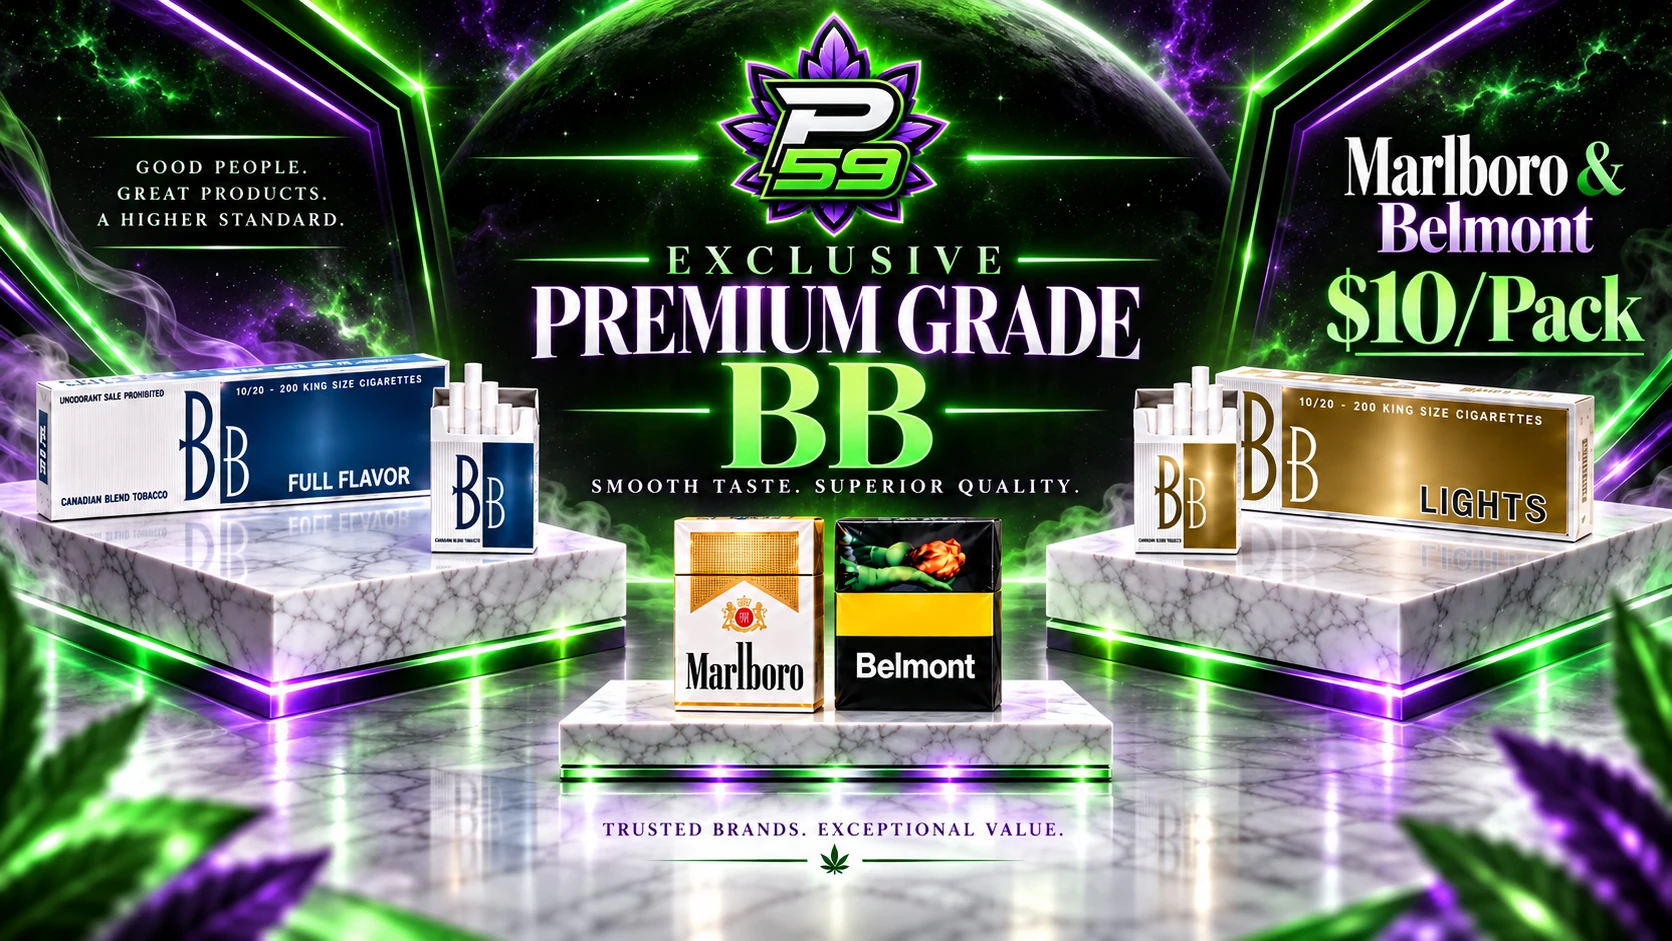
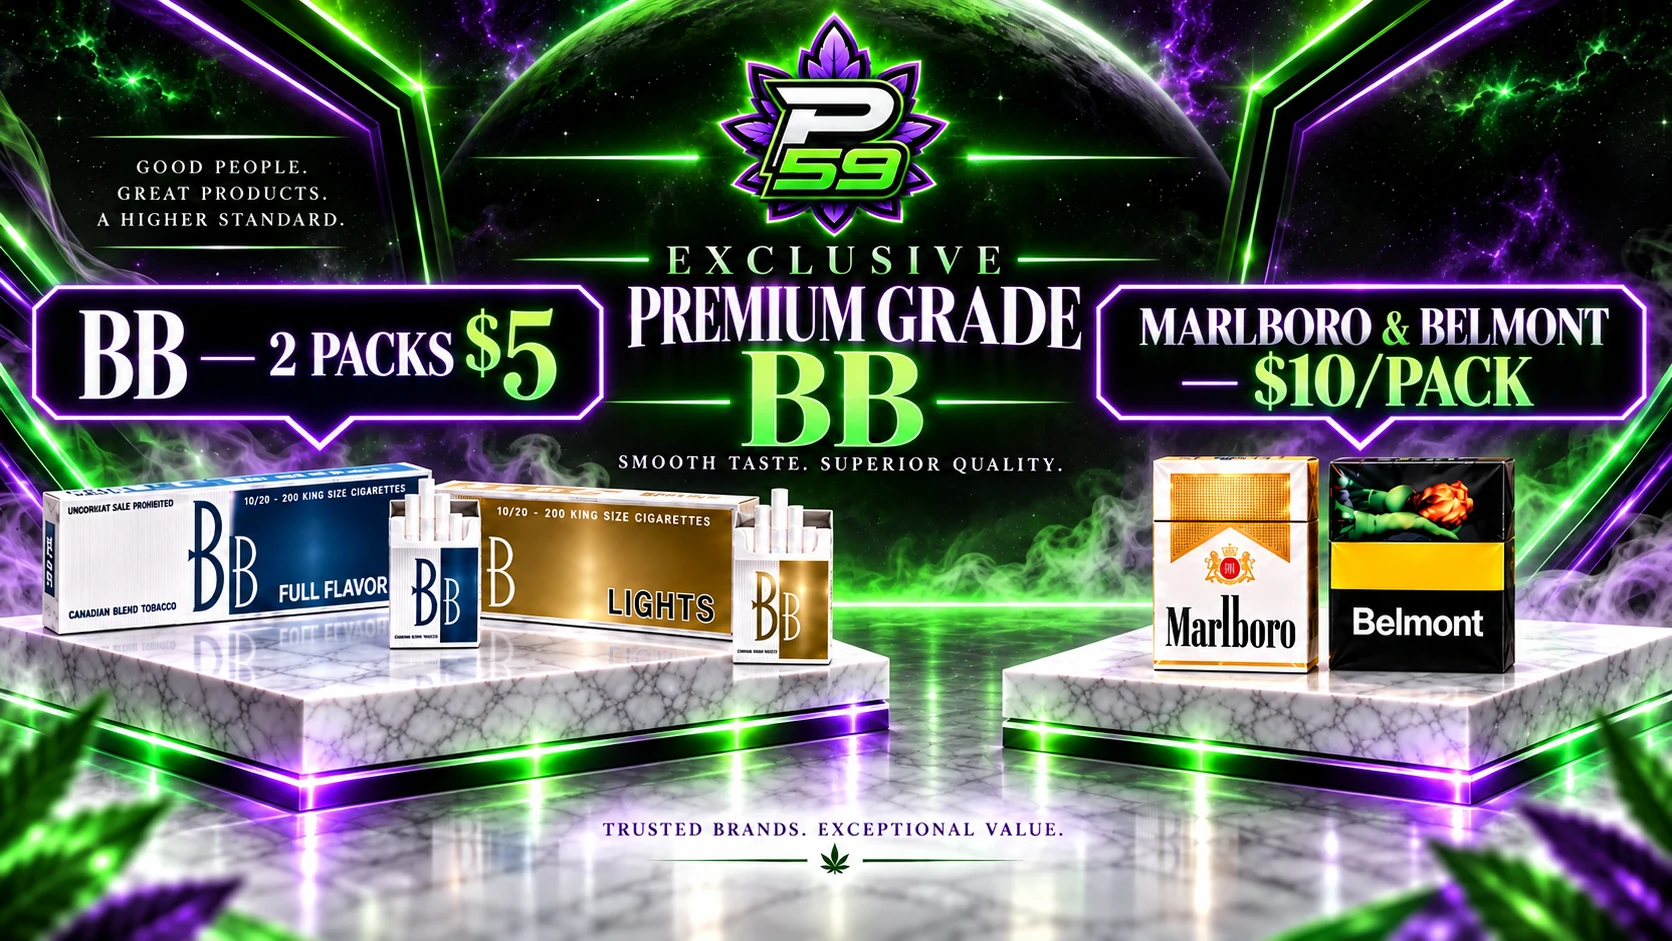
Add core promos to matching categories

diff --git a/app/components/CategoryCoreBanners.tsx b/app/components/CategoryCoreBanners.tsx
@@ -1,0 +1,52 @@
+import Link from "next/link";
+
+type CategoryCoreBannersProps = { kind: "weed" | "vapes" | "cigarettes" };
+
+const STORE_NAME = "PLANETS 59";
+const STORE_AREA = "Torbram Road, Brampton";
+const STORE_ORIGIN = "https://www.planets59.com";
+const TOP_WEED_IMAGE = "/banners/core-top-weed-tier.webp";
+const CIGARETTE_IMAGE = "/banners/native-cigarette-offer-20260822.webp";
+const VAPE_IMAGE = "/banners/core-vapes-nicotine-thc.webp";
+const PREMIUM_CIGARETTE_IMAGE = "/banners/core-premium-bb-marlboro-belmont.webp";
+
+export const cigaretteCategoryImage = {
+  alt: `${STORE_NAME} in ${STORE_AREA} — 2 packs for $5 mix and match and $25 carton cigarette offer`,
+  title: `${STORE_NAME} cigarette offer — 2 packs $5 mix and match, $25 carton`,
+};
+
+const promos = {
+  weed: { image: TOP_WEED_IMAGE, href: "/exotic-weed", alt: `${STORE_NAME} in ${STORE_AREA} — Exotic, Premium and AAA+ top weed tiers`, title: `${STORE_NAME} top weed tiers — Exotic, Premium and AAA+`, caption: "Exotic, Premium and AAA+ weed", linkLabel: "Shop weed tiers", schemaName: `${STORE_NAME} top weed tiers`, schemaDescription: `Exotic, Premium and AAA+ weed tiers at ${STORE_NAME} in ${STORE_AREA}.` },
+  vapes: { image: VAPE_IMAGE, href: "/items/vapes", alt: `${STORE_NAME} in ${STORE_AREA} — nicotine vapes and THC vapes`, title: `${STORE_NAME} nicotine vapes and THC vapes`, caption: "Nicotine vapes + THC vapes", linkLabel: "Shop vapes", schemaName: `${STORE_NAME} nicotine and THC vapes`, schemaDescription: `Nicotine vapes and THC vapes at ${STORE_NAME} in ${STORE_AREA}.` },
+  cigarettes: { image: CIGARETTE_IMAGE, href: "/items/cigarettes", alt: cigaretteCategoryImage.alt, title: cigaretteCategoryImage.title, caption: "2 packs $5 mix & match · $25 carton", linkLabel: "Shop cigarettes", schemaName: `${STORE_NAME} cigarette mix and match`, schemaDescription: `Two packs for $5 mix and match and $25 carton cigarette offer at ${STORE_NAME} in ${STORE_AREA}.` },
+  premium: { image: PREMIUM_CIGARETTE_IMAGE, href: "/items/cigarettes", alt: `${STORE_NAME} in ${STORE_AREA} — BB Full Flavor and Lights 2 packs for $5, Marlboro and Belmont $10 per pack`, title: `${STORE_NAME} premium cigarettes — BB 2 packs $5, Marlboro and Belmont $10 per pack`, caption: "BB Full Flavor + Lights — 2 packs $5 · Marlboro & Belmont — $10/pack", linkLabel: "Shop cigarettes", schemaName: `${STORE_NAME} premium cigarette offer`, schemaDescription: `BB Full Flavor and Lights two packs for $5 plus Marlboro and Belmont for $10 per pack at ${STORE_NAME} in ${STORE_AREA}.` },
+} as const;
+
+const figureStyle = { margin: 0, width: "100%" } as const;
+const imageStyle = { display: "block", width: "100%", maxWidth: "100%", height: "auto" } as const;
+const captionStyle = { margin: 0, padding: "14px 18px", background: "#111827", color: "#ffffff", textAlign: "center" as const, fontSize: "clamp(17px, 1.7vw, 28px)", fontWeight: 800, lineHeight: 1.35 };
+const captionLinkStyle = { color: "inherit", textDecoration: "underline", textUnderlineOffset: "3px" } as const;
+
+function PromoFigure({ promo, renderImage = true }: { promo: (typeof promos)[keyof typeof promos]; renderImage?: boolean }) {
+  return (
+    <figure data-category-core-banner={promo === promos.premium ? "premium-cigarettes" : promo === promos.cigarettes ? "cigarettes" : promo === promos.vapes ? "vapes" : "weed"} style={figureStyle}>
+      {renderImage ? <Link href={promo.href} aria-label={promo.alt} style={{ display: "block", width: "100%" }}>
+        {/* eslint-disable-next-line @next/next/no-img-element */}
+        <img src={promo.image} alt={promo.alt} title={promo.title} style={imageStyle} loading="lazy" />
+      </Link> : null}
+      <figcaption style={captionStyle}>{promo.caption} · <Link href={promo.href} style={captionLinkStyle}>{promo.linkLabel}</Link></figcaption>
+    </figure>
+  );
+}
+
+export default function CategoryCoreBanners({ kind }: CategoryCoreBannersProps) {
+  const visiblePromos = kind === "cigarettes" ? [promos.cigarettes, promos.premium] : [promos[kind]];
+  const imageObjects = visiblePromos.map((promo) => ({ "@type": "ImageObject", name: promo.schemaName, description: promo.schemaDescription, contentUrl: `${STORE_ORIGIN}${promo.image}` }));
+  return (
+    <section data-category-core-promos={kind} aria-label={`${STORE_NAME} ${kind} promotions`} style={{ width: "100%", maxWidth: "100%", overflowX: "hidden", marginBottom: "24px" }}>
+      <script type="application/ld+json" dangerouslySetInnerHTML={{ __html: JSON.stringify({ "@context": "https://schema.org", "@graph": imageObjects }).replace(/</g, "\\u003c") }} />
+      {kind === "cigarettes" ? <PromoFigure promo={promos.cigarettes} renderImage={false} /> : <PromoFigure promo={promos[kind]} />}
+      {kind === "cigarettes" ? <PromoFigure promo={promos.premium} /> : null}
+    </section>
+  );
+}

diff --git a/app/components/FleetAnnouncementBanner.tsx b/app/components/FleetAnnouncementBanner.tsx
@@ -15,7 +15,7 @@ const imageObjects = [
   { name: `${STORE_NAME} top weed tiers`, description: `Exotic, Premium and AAA+ weed tiers at ${STORE_NAME} in ${STORE_AREA}.`, contentUrl: `${STORE_ORIGIN}${TOP_WEED_IMAGE}` },
   { name: `${STORE_NAME} nicotine and THC vapes`, description: `Nicotine vapes and THC vapes at ${STORE_NAME} in ${STORE_AREA}.`, contentUrl: `${STORE_ORIGIN}${VAPE_IMAGE}` },
   { name: `${STORE_NAME} cigarette mix and match`, description: `Two packs for $5 mix and match and $25 carton cigarette offer at ${STORE_NAME} in ${STORE_AREA}.`, contentUrl: `${STORE_ORIGIN}${CIGARETTE_IMAGE}` },
-  { name: `${STORE_NAME} premium cigarette offer`, description: `BB Full Flavor and Lights plus Marlboro and Belmont cigarette offer at ${STORE_NAME} in ${STORE_AREA}.`, contentUrl: `${STORE_ORIGIN}${PREMIUM_CIGARETTE_IMAGE}` },
+  { name: `${STORE_NAME} premium cigarette offer`, description: `BB Full Flavor and Lights two packs for $5 plus Marlboro and Belmont for $10 per pack at ${STORE_NAME} in ${STORE_AREA}.`, contentUrl: `${STORE_ORIGIN}${PREMIUM_CIGARETTE_IMAGE}` },
 ].map((image) => ({ "@type": "ImageObject", ...image }));
 
 function isThanksgivingNoticeActive(date: Date) {
@@ -28,7 +28,7 @@ function isThanksgivingNoticeActive(date: Date) {
 const figureStyle = { margin: 0, width: "100%" } as const;
 const imageStyle = { display: "block", width: "100%", maxWidth: "100%", height: "auto" } as const;
 const linkStyle = { display: "block", width: "100%" } as const;
-const captionStyle = { margin: 0, padding: "10px 14px", background: "#111827", color: "#ffffff", textAlign: "center" as const, fontWeight: 800, lineHeight: 1.35 };
+const captionStyle = { margin: 0, padding: "14px 18px", background: "#111827", color: "#ffffff", textAlign: "center" as const, fontSize: "clamp(17px, 1.7vw, 28px)", fontWeight: 800, lineHeight: 1.35 };
 const captionLinkStyle = { color: "inherit", textDecoration: "underline", textUnderlineOffset: "3px" } as const;
 
 export default function FleetAnnouncementBanner() {
@@ -71,9 +71,9 @@ export default function FleetAnnouncementBanner() {
       <figure data-core-banner="premium-cigarettes" data-premium-cigarette-banner="" style={figureStyle}>
         <Link href="/items/cigarettes" aria-label={`Shop BB, Marlboro and Belmont cigarette offers at ${STORE_NAME}`} style={linkStyle}>
           {/* eslint-disable-next-line @next/next/no-img-element */}
-          <img src={PREMIUM_CIGARETTE_IMAGE} alt={`${STORE_NAME} in ${STORE_AREA} — BB Full Flavor and Lights, Marlboro and Belmont premium cigarettes`} title={`${STORE_NAME} premium cigarettes — BB, Marlboro and Belmont`} style={imageStyle} loading="lazy" />
+          <img src={PREMIUM_CIGARETTE_IMAGE} alt={`${STORE_NAME} in ${STORE_AREA} — BB Full Flavor and Lights 2 packs for $5, Marlboro and Belmont $10 per pack`} title={`${STORE_NAME} premium cigarettes — BB 2 packs $5, Marlboro and Belmont $10 per pack`} style={imageStyle} loading="lazy" />
         </Link>
-        <figcaption style={captionStyle}>BB Full Flavor + Lights · Marlboro &amp; Belmont $10/pack · <Link href="/items/cigarettes" style={captionLinkStyle}>Shop cigarettes</Link></figcaption>
+        <figcaption style={captionStyle}>BB Full Flavor + Lights — 2 packs $5 · Marlboro &amp; Belmont — $10/pack · <Link href="/items/cigarettes" style={captionLinkStyle}>Shop cigarettes</Link></figcaption>
       </figure>
       {showThanksgivingNotice ? <p data-thanksgiving-hours-notice="">Thanksgiving Monday (Oct 12): We are open regular hours.</p> : null}
     </aside>

diff --git a/app/items/[category]/page.tsx b/app/items/[category]/page.tsx
@@ -4,6 +4,7 @@ import fs from "fs";
 import path from "path";
 import Link from "next/link";
 import Navbar from "../../components/Navbar";
+import CategoryCoreBanners, { cigaretteCategoryImage } from "../../components/CategoryCoreBanners";
 import Footer from "../../components/Footer";
 import SafeImage from "../../components/SafeImage";
 import { getItemPriceDisplay } from "../../lib/itemPricing";
@@ -81,7 +82,8 @@ export default async function ItemsCategoryPage({
           <>
             <img
               src={config.banner}
-              alt={config.name}
+              alt={catSlug === "cigarettes" ? cigaretteCategoryImage.alt : config.name}
+              title={catSlug === "cigarettes" ? cigaretteCategoryImage.title : config.name}
               style={{ width: "100%", height: "auto", display: "block", objectFit: "contain" }}
             />
             <div className={styles.heroContent} style={{ padding: "28px 24px 8px", textAlign: "center" }}>
@@ -98,6 +100,9 @@ export default async function ItemsCategoryPage({
           </div>
         )}
       </section>
+
+      {(catSlug === "vapes" || catSlug === "vape-disposables") && <CategoryCoreBanners kind="vapes" />}
+      {catSlug === "cigarettes" && <CategoryCoreBanners kind="cigarettes" />}
 
       {(catSlug === "vapes" || catSlug === "vape-disposables") && <VapeActionPanel compact />}
 

diff --git a/app/[tier]/page.tsx b/app/[tier]/page.tsx
@@ -4,6 +4,7 @@ import Link from "next/link";
 import fs from "fs";
 import path from "path";
 import Navbar from "../components/Navbar";
+import CategoryCoreBanners from "../components/CategoryCoreBanners";
 import Footer from "../components/Footer";
 import FlowerCard from "../components/FlowerCard";
 import {
@@ -140,6 +141,8 @@ export default async function TierPage({
           />
         </section>
       )}
+
+      {["EXOTIC", "PREMIUM", "AAA+"].includes(tierInfo.key.toUpperCase()) ? <CategoryCoreBanners kind="weed" /> : null}
 
       {/* ── Hero Content BELOW banner ── */}
       <section

diff --git a/app/globals.css b/app/globals.css
@@ -473,10 +473,11 @@ button { cursor: pointer; font-family: inherit; }
 }
 
 [data-fleet-homepage-announcement] {
-  display: grid;
-  grid-template-rows: 1fr 1fr;
+  display: flex;
+  flex-direction: column;
   width: 100%;
-  height: var(--fleet-homepage-announcement-height);
+  height: auto;
+  min-height: 0;
   margin-top: var(--homepage-nav-clearance);
 }
 
